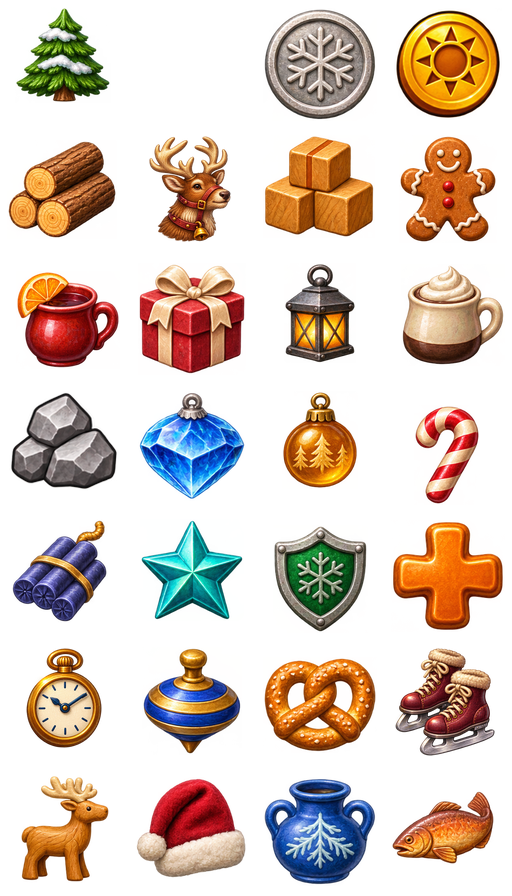
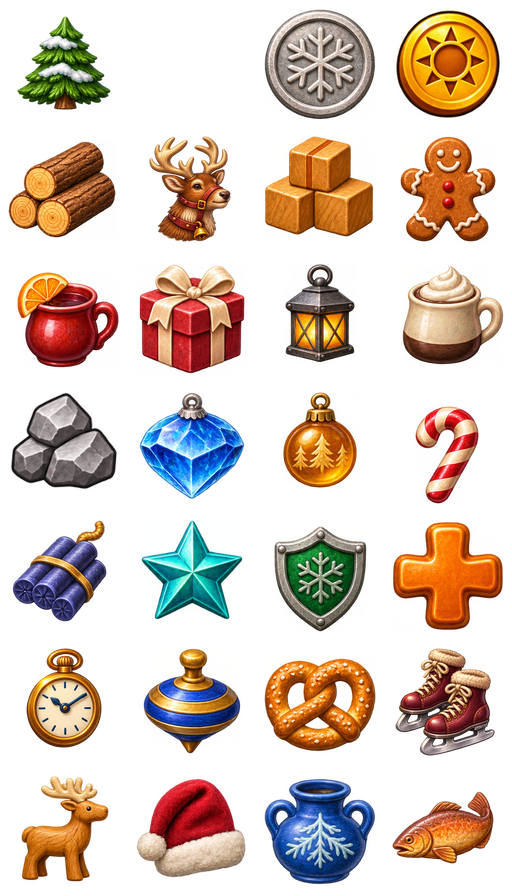
Center the Christmas Market fir by its silhouette

Changed region(s): [[0.0312, 0.0, 0.2188, 0.125]]

diff --git a/games/christmas-market/tools/prepare_market_goods.py b/games/christmas-market/tools/prepare_market_goods.py
@@ -40,8 +40,10 @@ def main():
     atlas = Image.new('RGBA', (COLUMNS * SLOT, ROWS * SLOT))
     sprites = goods['frames']
     aliases = goods['aliases']
+    silhouette_centered = set(goods.get('silhouette_centered', []))
     assert len(sprites) <= COLUMNS * ROWS and edits.keys() <= sprites.keys()
     assert aliases.keys() <= sprites.keys() and not (aliases.keys() & edits.keys())
+    assert silhouette_centered <= sprites.keys() - aliases.keys()
     frames = {}
     for slot, (key, name) in enumerate(sprites.items()):
         if key in aliases:
@@ -64,14 +66,30 @@ def main():
         crop = (max(0, x0 - EDGE_PADDING), max(0, y0 - EDGE_PADDING),
                 min(sprite.width, x1 + EDGE_PADDING), min(sprite.height, y1 + EDGE_PADDING))
         frame, fitted, offset = fit_object(sprite.crop(crop), mask, max_side, None, anchor=alpha_center)
+        center_by_bounds = key in silhouette_centered
+        if center_by_bounds:
+            # Move the fitted art as-is so an optical alignment never changes its size.
+            x0, y0, x1, y1 = silhouette(frame).getbbox()
+            dx, dy = round((SLOT - x0 - x1) / 2), round((SLOT - y0 - y1) / 2)
+            left_edge, top_edge, right_edge, bottom_edge = frame.getchannel('A').getbbox()
+            assert 0 <= left_edge + dx < right_edge + dx <= SLOT
+            assert 0 <= top_edge + dy < bottom_edge + dy <= SLOT
+            centered = Image.new('RGBA', frame.size)
+            centered.paste(frame, (dx, dy))
+            frame, offset = centered, [offset[0] + dx, offset[1] + dy]
+            x0, y0, x1, y1 = silhouette(frame).getbbox()
+            assert abs(x0 - (SLOT - x1)) <= 1 and abs(y0 - (SLOT - y1)) <= 1, key
         center = [round(axis, 4) for axis in alpha_center(frame)]
-        assert all(abs(axis - SLOT / 2) <= .5 for axis in center), (key, center)
+        if not center_by_bounds:
+            assert all(abs(axis - SLOT / 2) <= .5 for axis in center), (key, center)
         atlas_row, atlas_col = divmod(slot, COLUMNS)
         x, y = atlas_col * SLOT, atlas_row * SLOT
         atlas.paste(frame, (x, y))
         source_crop = [left + crop[0], top + crop[1], left + crop[2], top + crop[3]]
         frames[key] = dict(name=name, source_crop=source_crop, fitted_size=fitted,
                            offset=offset, alpha_center=center, registered_box=[x, y, SLOT, SLOT])
+        if center_by_bounds:
+            frames[key]['anchor'] = 'silhouette'
         if key in edits:
             frames[key]['source'] = edits[key]['source']
     record = ROOT / goods['transforms']

diff --git a/games/christmas-market/docs/asset-catalogue.md b/games/christmas-market/docs/asset-catalogue.md
@@ -177,7 +177,10 @@ The [registration record](../art/market-goods/registration.json) saves each
 source crop, proportional fit, offset and alpha-weighted center in its 128 px
 slot. The crop takes the object's solid bounds with four pixels of edge
 padding. The fit preserves source alpha inside the square cell's 9 px inset.
-The market goods crops in this record center within half a pixel on both axes.
+Opacity-centered crops align within half a pixel on both axes. The snowy fir
+(`market-0`) centers on the visible silhouette, keeping opposite margins equal
+to within one pixel. The registration translates the already fitted fir and
+preserves its size and painted alpha.
 
 | Atlas slot | Piece | Dominant color | Role |
 | ---: | --- | --- | --- |

diff --git a/games/christmas-market/docs/square-match3.md b/games/christmas-market/docs/square-match3.md
@@ -73,8 +73,9 @@ build/test/christmas-market "shot booster-toolbar" "shot square-winter-wreath" "
 
 ### Piece size
 
-All pieces are sized to the square cell and centered by their opacity-weighted
-mass. The square corners leave room for the reindeer's antlers and the diagonal
+Pieces fit the square cell. Most use their opacity-weighted center. The snowy
+fir uses its visible bounds so the tip and trunk have equal breathing room.
+The square corners leave room for the reindeer's antlers and the diagonal
 cracker bundle. The same reindeer and station clock illustrations appear on the
 board and in all five toolbar states.
 
